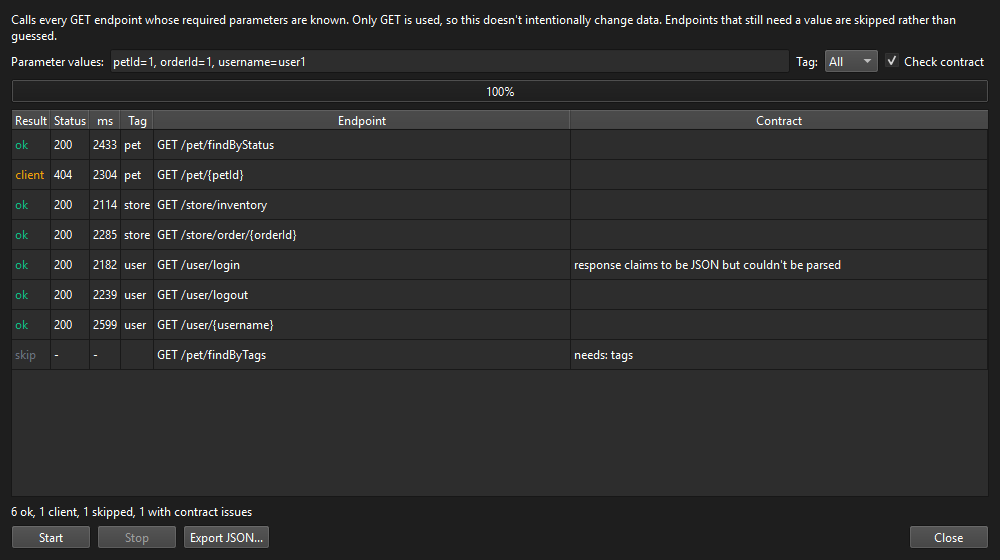
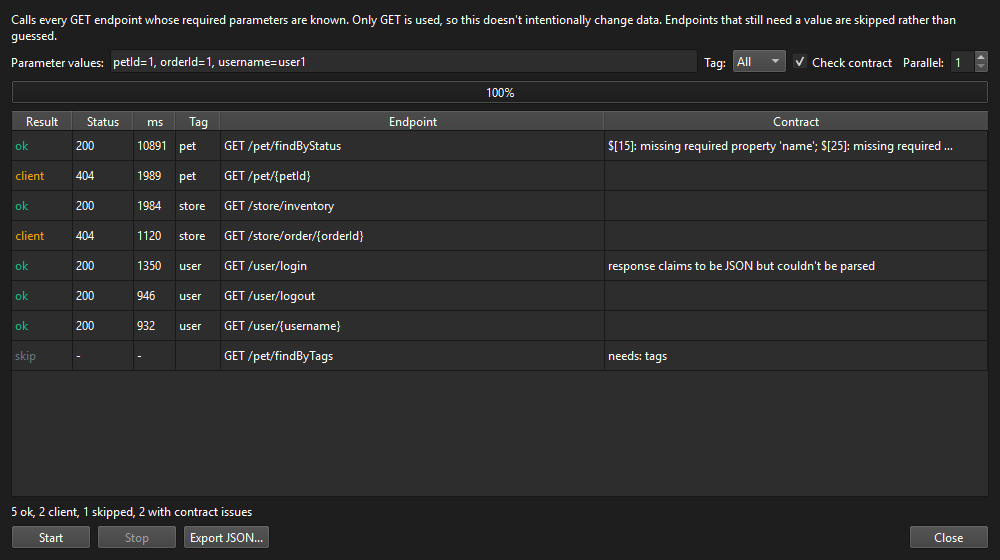
Audit dialog: open results, sort them, keep them; Esc cancels
- Double-click an audit row to open that endpoint in the main window,
  with the audit's parameter values merged into its draft. On a skipped
  row this is where the user fills in the missing value. The endpoint
  filter is cleared if it would hide the endpoint.
- Results become sortable when a run finishes. Status and time sort as
  numbers, and rows keep plan order until a header is clicked.
- The dialog is kept between openings for the same spec, so results
  survive a trip to the main window. A newly loaded spec gets a new one.
- Esc in the main window cancels a request in flight.
- Refresh the README audit screenshots for the new Parallel control.

diff --git a/specprobe/gui.py b/specprobe/gui.py
@@ -612,11 +612,13 @@ class AuditDialog(QtWidgets.QDialog):
     def __init__(self, window: "MainWindow"):
         super().__init__(window)
         self.window_ref = window
+        self.spec = window.spec
         self.setWindowTitle("Audit GET endpoints")
         self.resize(980, 640)
         self._worker: Optional[AuditWorker] = None
         self._rows: list[AuditRow] = []
         self._skipped: list[dict] = []
+        self._planned: dict[tuple, RequestParts] = {}
         self._total = 0
 
         intro = QtWidgets.QLabel(
@@ -656,6 +658,8 @@ class AuditDialog(QtWidgets.QDialog):
         self.table.verticalHeader().setVisible(False)
         self.table.setEditTriggers(QtWidgets.QAbstractItemView.NoEditTriggers)
         self.table.setSelectionBehavior(QtWidgets.QAbstractItemView.SelectRows)
+        self.table.setToolTip("Double-click a row to open that endpoint with the values the audit used")
+        self.table.cellDoubleClicked.connect(self.open_row)
         hh = self.table.horizontalHeader()
         for col in range(4):
             hh.setSectionResizeMode(col, QtWidgets.QHeaderView.ResizeToContents)
@@ -710,6 +714,9 @@ class AuditDialog(QtWidgets.QDialog):
             params=self._parse_params(),
             tag=None if tag == "All" else tag,
         )
+        self._planned = {ep.key: parts for ep, parts in targets}
+        # Sorting while rows arrive would scatter them, so it's only on between runs.
+        self.table.setSortingEnabled(False)
         self.table.setRowCount(0)
         self._rows = []
         self._total = len(targets)
@@ -737,13 +744,16 @@ class AuditDialog(QtWidgets.QDialog):
         if self._worker:
             self._worker.stop_requested = True
             self.stop_btn.setEnabled(False)
-            self.summary.setText("Stopping after the current request...")
+            self.summary.setText("Stopping after the requests in flight...")
 
-    def _add_row(self, cells: list[str], color: str):
+    def _add_row(self, cells: list[str], color: str, key: tuple):
         row = self.table.rowCount()
         self.table.insertRow(row)
         for col, text in enumerate(cells):
-            item = QtWidgets.QTableWidgetItem(text)
+            item = QtWidgets.QTableWidgetItem()
+            # Numbers sort as numbers: 20 ms before 100 ms.
+            item.setData(QtCore.Qt.DisplayRole, int(text) if text.isdigit() else text)
+            item.setData(QtCore.Qt.UserRole, key)
             if col == 0:
                 item.setForeground(QtGui.QBrush(QtGui.QColor(color)))
             if col == 5 and text:
@@ -757,6 +767,7 @@ class AuditDialog(QtWidgets.QDialog):
         self._add_row(
             [row.bucket, str(row.status or "-"), f"{row.ms:.0f}", row.tag, f"{row.method} {row.path}", contract],
             colors.get(row.bucket, BAD_COLOR),
+            (row.method, row.path),
         )
         self.table.scrollToBottom()
         self.progress.setValue(len(self._rows))
@@ -766,6 +777,7 @@ class AuditDialog(QtWidgets.QDialog):
             self._add_row(
                 ["skip", "-", "-", "", f"{item['method']} {item['path']}", f"needs: {', '.join(item['missing'])}"],
                 MUTED,
+                (item["method"], item["path"]),
             )
         counts: dict[str, int] = {}
         for row in self._rows:
@@ -776,9 +788,25 @@ class AuditDialog(QtWidgets.QDialog):
         if self.validate_box.isChecked():
             parts.append(f"{issues} with contract issues")
         self.summary.setText(", ".join(parts))
+        # Without a sort column, enabling sorting keeps plan order until a header is clicked.
+        self.table.horizontalHeader().setSortIndicator(-1, QtCore.Qt.AscendingOrder)
+        self.table.setSortingEnabled(True)
         self.start_btn.setEnabled(True)
         self.stop_btn.setEnabled(False)
         self.export_btn.setEnabled(bool(self._rows))
+
+    def open_row(self, row: int, _column: int = 0):
+        """Show the row's endpoint in the main window, filled with the audit's values.
+
+        For a skipped row this is where the user supplies the missing value.
+        """
+        item = self.table.item(row, 0)
+        key = item.data(QtCore.Qt.UserRole) if item else None
+        if not key:
+            return
+        parts = self._planned.get(tuple(key))
+        self.window_ref.show_endpoint(*key, values=_values_from_parts(parts) if parts else None)
+        self.reject()
 
     def export(self):
         path, _ = QtWidgets.QFileDialog.getSaveFileName(self, "Export audit", "audit.json", "JSON (*.json)")
@@ -797,6 +825,18 @@ class AuditDialog(QtWidgets.QDialog):
     def reject(self):
         self.stop()
         super().reject()
+
+
+def _values_from_parts(parts: RequestParts) -> dict:
+    """Turn planned request parts back into parameter-table values."""
+    values: dict = {(name, "path"): value for name, value in parts.path_params.items()}
+    query: dict[str, list[str]] = {}
+    for name, value in parts.query:
+        query.setdefault(name, []).append(str(value))
+    values.update({(name, "query"): ",".join(v) for name, v in query.items()})
+    values.update({(name, "header"): value for name, value in parts.headers.items()})
+    values.update({(name, "cookie"): value for name, value in parts.cookies.items()})
+    return values
 
 
 def _load_and_parse(url: str, **kwargs) -> tuple[dict, str, list[Endpoint]]:
@@ -831,6 +871,7 @@ class MainWindow(QtWidgets.QMainWindow):
         self._last_result: Optional[CallResult] = None
         self._load_worker: Optional[Worker] = None
         self._call_worker: Optional[Worker] = None
+        self._audit_dialog: Optional[AuditDialog] = None
 
         central = QtWidgets.QWidget()
         self.setCentralWidget(central)
@@ -891,10 +932,11 @@ class MainWindow(QtWidgets.QMainWindow):
         QtGui.QShortcut(QtGui.QKeySequence("Ctrl+F"), self, activated=self._focus_filter)
         QtGui.QShortcut(QtGui.QKeySequence("Ctrl+L"), self, activated=self.url_edit.setFocus)
         QtGui.QShortcut(QtGui.QKeySequence("Ctrl+R"), self, activated=self.load_spec)
+        QtGui.QShortcut(QtGui.QKeySequence(QtCore.Qt.Key_Escape), self, activated=self._on_escape)
 
         self.statusBar().showMessage(
             "Paste an API docs or spec URL and click Load. "
-            "(Ctrl+L address, Ctrl+R reload, Ctrl+F filter, Ctrl+Enter send)"
+            "(Ctrl+L address, Ctrl+R reload, Ctrl+F filter, Ctrl+Enter send, Esc cancel)"
         )
 
         self._log_handler = QtLogHandler()
@@ -1152,7 +1194,7 @@ class MainWindow(QtWidgets.QMainWindow):
         self.cancel_btn = QtWidgets.QPushButton("Cancel")
         self.cancel_btn.setMinimumHeight(32)
         self.cancel_btn.setEnabled(False)
-        self.cancel_btn.setToolTip("Stop waiting for the response. The server may still process the request.")
+        self.cancel_btn.setToolTip("Stop waiting for the response (Esc). The server may still process the request.")
         self.cancel_btn.clicked.connect(self.cancel_request)
         self.curl_btn = QtWidgets.QPushButton("Copy as cURL")
         self.curl_btn.setMinimumHeight(32)
@@ -1859,6 +1901,10 @@ class MainWindow(QtWidgets.QMainWindow):
         self._set_busy(True, f"{ep.method} {request['url']}")
         self._call_worker.start()
 
+    def _on_escape(self):
+        if self.cancel_btn.isEnabled():
+            self.cancel_request()
+
     def cancel_request(self):
         """Stop waiting. The thread can't be interrupted, so its result is ignored."""
         self._call_worker = None
@@ -2029,6 +2075,19 @@ class MainWindow(QtWidgets.QMainWindow):
         else:
             self.status_label.setText(_colored(MUTED, entry["note"]))
 
+    def show_endpoint(self, method: str, path: str, values: Optional[dict] = None):
+        """Select an endpoint, first merging `values` into its draft."""
+        self._save_draft()
+        self.current_endpoint = None
+        if values:
+            draft = dict(self._drafts.get((method, path)) or {"values": {}, "body": "", "content_type": ""})
+            draft["values"] = {**draft["values"], **values}
+            self._drafts[(method, path)] = draft
+        if self.search_edit.text():
+            self.search_edit.clear()  # the endpoint might be filtered out of view
+        self.left_tabs.setCurrentIndex(0)
+        self._select_endpoint(method, path)
+
     def _select_endpoint(self, method: str, path: str):
         for i in range(self.tree.topLevelItemCount()):
             parent = self.tree.topLevelItem(i)
@@ -2077,9 +2136,13 @@ class MainWindow(QtWidgets.QMainWindow):
         dlg.deleteLater()
 
     def open_audit(self):
-        dlg = AuditDialog(self)
+        # Kept between openings, so the results survive a trip to the main window.
+        dlg = self._audit_dialog
+        if dlg is None or dlg.spec is not self.spec:
+            if dlg is not None:
+                dlg.deleteLater()
+            dlg = self._audit_dialog = AuditDialog(self)
         dlg.exec()
-        dlg.deleteLater()
 
 
 def _human_size(size: int) -> str:

diff --git a/tests/test_gui.py b/tests/test_gui.py
@@ -268,6 +268,16 @@ class Requests(GuiTestCase):
         self.assertIn("Cancelled", self.win.status_label.text())
         self.assertEqual(self.win.pretty_view.toPlainText(), "")
 
+    def test_escape_cancels_only_while_sending(self):
+        self.select("GET", "/slow")
+        self.win._on_escape()  # idle: nothing to cancel
+        self.assertNotIn("Cancelled", self.win.status_label.text())
+        self.win.send_request()
+        self.win._on_escape()
+        self.assertFalse(self.win._busy)
+        self.assertIn("Cancelled", self.win.status_label.text())
+        wait_until(lambda: not gui._LIVE_WORKERS, timeout=10)
+
     def test_copy_curl(self):
         self.win.token_edit.setText("good")
         self.select("GET", "/secure")
@@ -592,6 +602,65 @@ class Audit(GuiTestCase):
         wait_until(lambda: dlg.start_btn.isEnabled(), timeout=20)
         rows = {dlg.table.item(r, 4).text(): dlg.table.item(r, 0).text() for r in range(dlg.table.rowCount())}
         self.assertEqual(rows["GET /pets/{id}"], "skip")
+
+    def test_double_click_opens_endpoint_with_audit_values(self):
+        self.load()
+        dlg = gui.AuditDialog(self.win)
+        dlg.params_edit.setText("id=5, q=x")
+        dlg.start()
+        wait_until(lambda: dlg.start_btn.isEnabled(), timeout=20)
+        row = next(r for r in range(dlg.table.rowCount()) if dlg.table.item(r, 4).text() == "GET /pets/{id}")
+        dlg.open_row(row)
+        ep = self.win.current_endpoint
+        self.assertEqual(ep.key, ("GET", "/pets/{id}"))
+        self.assertEqual(self.win._param_values()[("id", "path")], "5")
+        dlg.deleteLater()
+
+    def test_double_click_on_skipped_row_opens_endpoint(self):
+        self.load()
+        self.win.search_edit.setText("boom")  # filtered out of view
+        dlg = gui.AuditDialog(self.win)
+        dlg.tag_combo.setCurrentText("pets")
+        dlg.start()
+        wait_until(lambda: dlg.start_btn.isEnabled(), timeout=20)
+        row = next(r for r in range(dlg.table.rowCount()) if dlg.table.item(r, 0).text() == "skip")
+        dlg.open_row(row)
+        self.assertEqual(self.win.current_endpoint.key, ("GET", "/pets/{id}"))
+        self.assertEqual(self.win.search_edit.text(), "")
+        dlg.deleteLater()
+
+    def test_numbers_sort_numerically_after_the_run(self):
+        self.load()
+        dlg = gui.AuditDialog(self.win)
+        dlg.params_edit.setText("id=5, q=x")
+        dlg.start()
+        self.assertFalse(dlg.table.isSortingEnabled())
+        wait_until(lambda: dlg.start_btn.isEnabled(), timeout=20)
+        self.assertTrue(dlg.table.isSortingEnabled())
+        # Rows stay in plan order, skipped last, until the user picks a column.
+        expected = [f"GET {path}" for _, path in dlg._planned]
+        expected += [f"{item['method']} {item['path']}" for item in dlg._skipped]
+        shown = [dlg.table.item(r, 4).text() for r in range(dlg.table.rowCount())]
+        self.assertEqual(shown, expected)
+        dlg.table.sortItems(2)
+        ms = [dlg.table.item(r, 2).data(QtCore.Qt.DisplayRole) for r in range(dlg.table.rowCount())
+              if dlg.table.item(r, 0).text() != "skip"]
+        self.assertEqual(ms, sorted(ms))
+        dlg.deleteLater()
+
+    def test_results_survive_reopening(self):
+        self.load()
+        self.win._audit_dialog = None
+        QtCore.QTimer.singleShot(0, lambda: self.win._audit_dialog.reject())
+        self.win.open_audit()
+        first = self.win._audit_dialog
+        QtCore.QTimer.singleShot(0, lambda: self.win._audit_dialog.reject())
+        self.win.open_audit()
+        self.assertIs(self.win._audit_dialog, first)
+        self.load()  # a new spec gets a new dialog
+        QtCore.QTimer.singleShot(0, lambda: self.win._audit_dialog.reject())
+        self.win.open_audit()
+        self.assertIsNot(self.win._audit_dialog, first)
 
     def test_stop(self):
         self.load()

diff --git a/README.md b/README.md
@@ -72,6 +72,7 @@ Your edits to an endpoint are kept when you switch to another. A path value is c
 | `Ctrl+R` | Reload the spec |
 | `Ctrl+F` | Filter endpoints |
 | `Ctrl+Enter` | Send |
+| `Esc` | Stop waiting for the response |
 
 The app follows your system's light or dark theme. The screenshots here switch with your browser's theme too.
 
@@ -79,9 +80,11 @@ The app follows your system's light or dark theme. The screenshots here switch w
 
 **Audit...** calls every GET endpoint whose required values it knows, and skips the rest rather than guessing. Give it values such as `petId=1, username=user1` to cover more endpoints. It's the same sweep as the CLI's `audit`, and **Export JSON...** saves the report.
 
+Double-click a row to open that endpoint with the values the audit used. On a skipped row, that's where you fill in the missing value. Once the run finishes, click a column header to sort, for example by time. **Parallel** sends several requests at once. It stays at 1 unless you raise it, because an audit shouldn't load a server or trip its rate limits unasked.
+
 <picture>
   <source media="(prefers-color-scheme: dark)" srcset="https://raw.githubusercontent.com/Basheer009/specprobe/HEAD/docs/screenshots/audit-dark.png">
-  <img src="https://raw.githubusercontent.com/Basheer009/specprobe/HEAD/docs/screenshots/audit-light.png" alt="The Audit dialog after sweeping the Petstore demo: six endpoints ok, one 404, one skipped for a missing value">
+  <img src="https://raw.githubusercontent.com/Basheer009/specprobe/HEAD/docs/screenshots/audit-light.png" alt="The Audit dialog after sweeping the Petstore demo: five endpoints ok, two 404s, one skipped for a missing value">
 </picture>
 
 ### Login dialog

diff --git a/CHANGELOG.md b/CHANGELOG.md
@@ -15,6 +15,8 @@ First public release. The project is now an installable package (`specprobe/`) w
 - GUI: server picker, per-API settings, drafts kept across endpoints, request history, Docs tab, extra headers, enum dropdowns, cancel, timeout, Copy as cURL, Save response, Log tab, and dark theme support.
 - CLI: `show` subcommand, `--curl`, `--output`, `--form`, `--body`, `--version`, `$SPECPROBE_URL`, and safer ways to supply a password.
 - Parallel audits: `audit --jobs N`, or **Parallel** in the GUI's Audit dialog. The default is still one request at a time.
+- Audit dialog: double-click a result to open that endpoint with the values the audit used, which is also how you fill in a skipped endpoint's missing value. Results can be sorted once the run finishes, and they're kept when you close and reopen the dialog.
+- `Esc` stops waiting for a response.
 - Test suite running against a local mock API, run by GitHub Actions on Windows for Python 3.10 to 3.13.
 
 ### Changed
